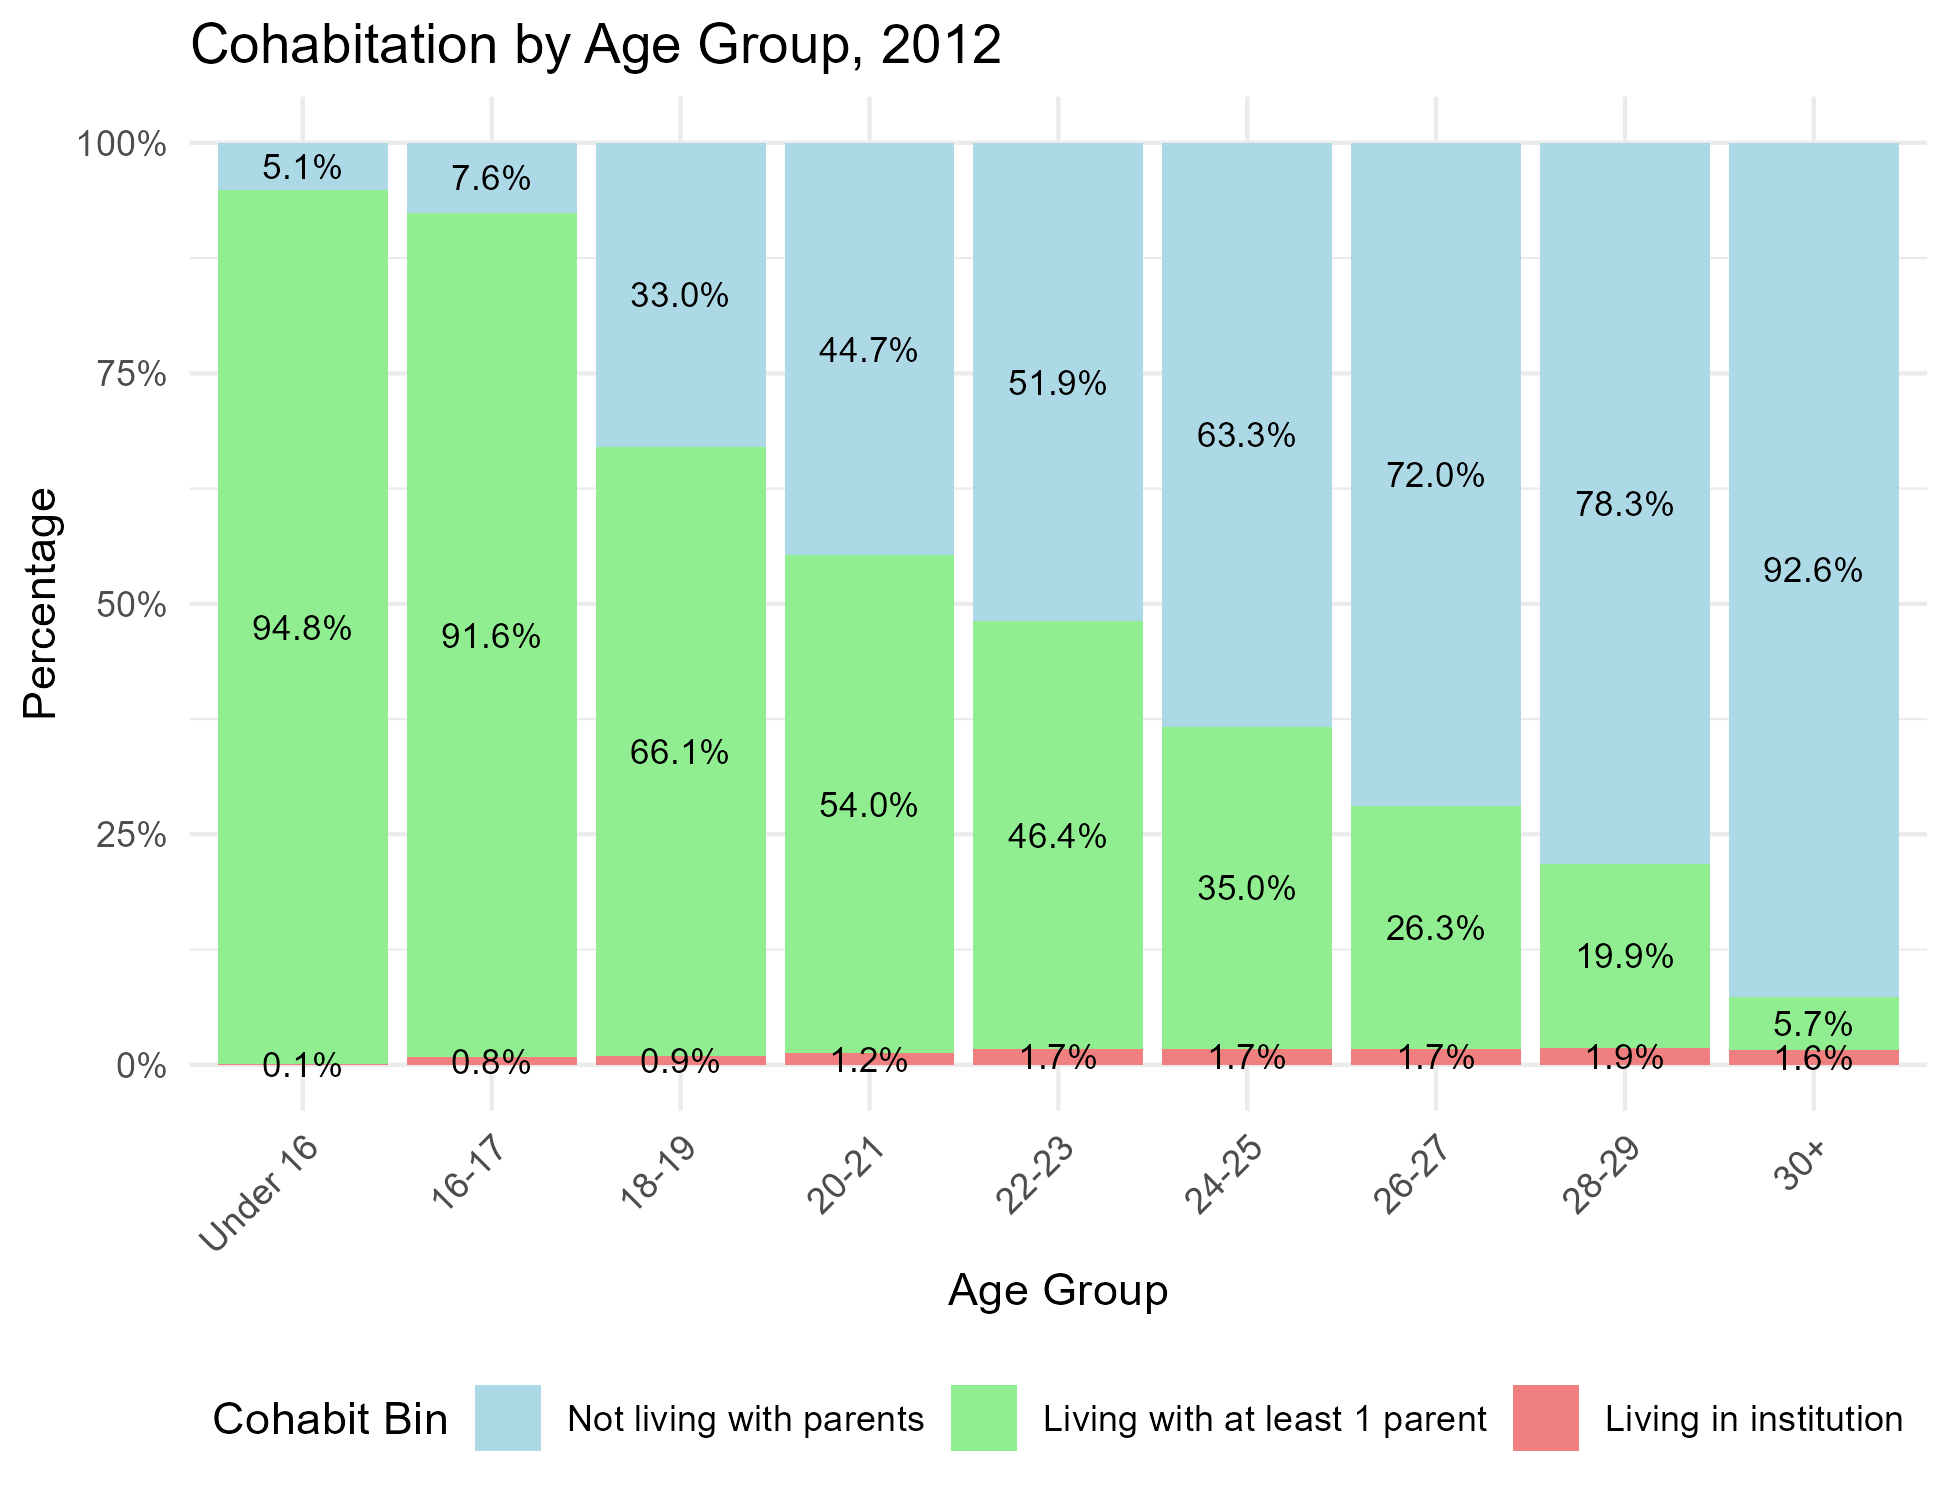
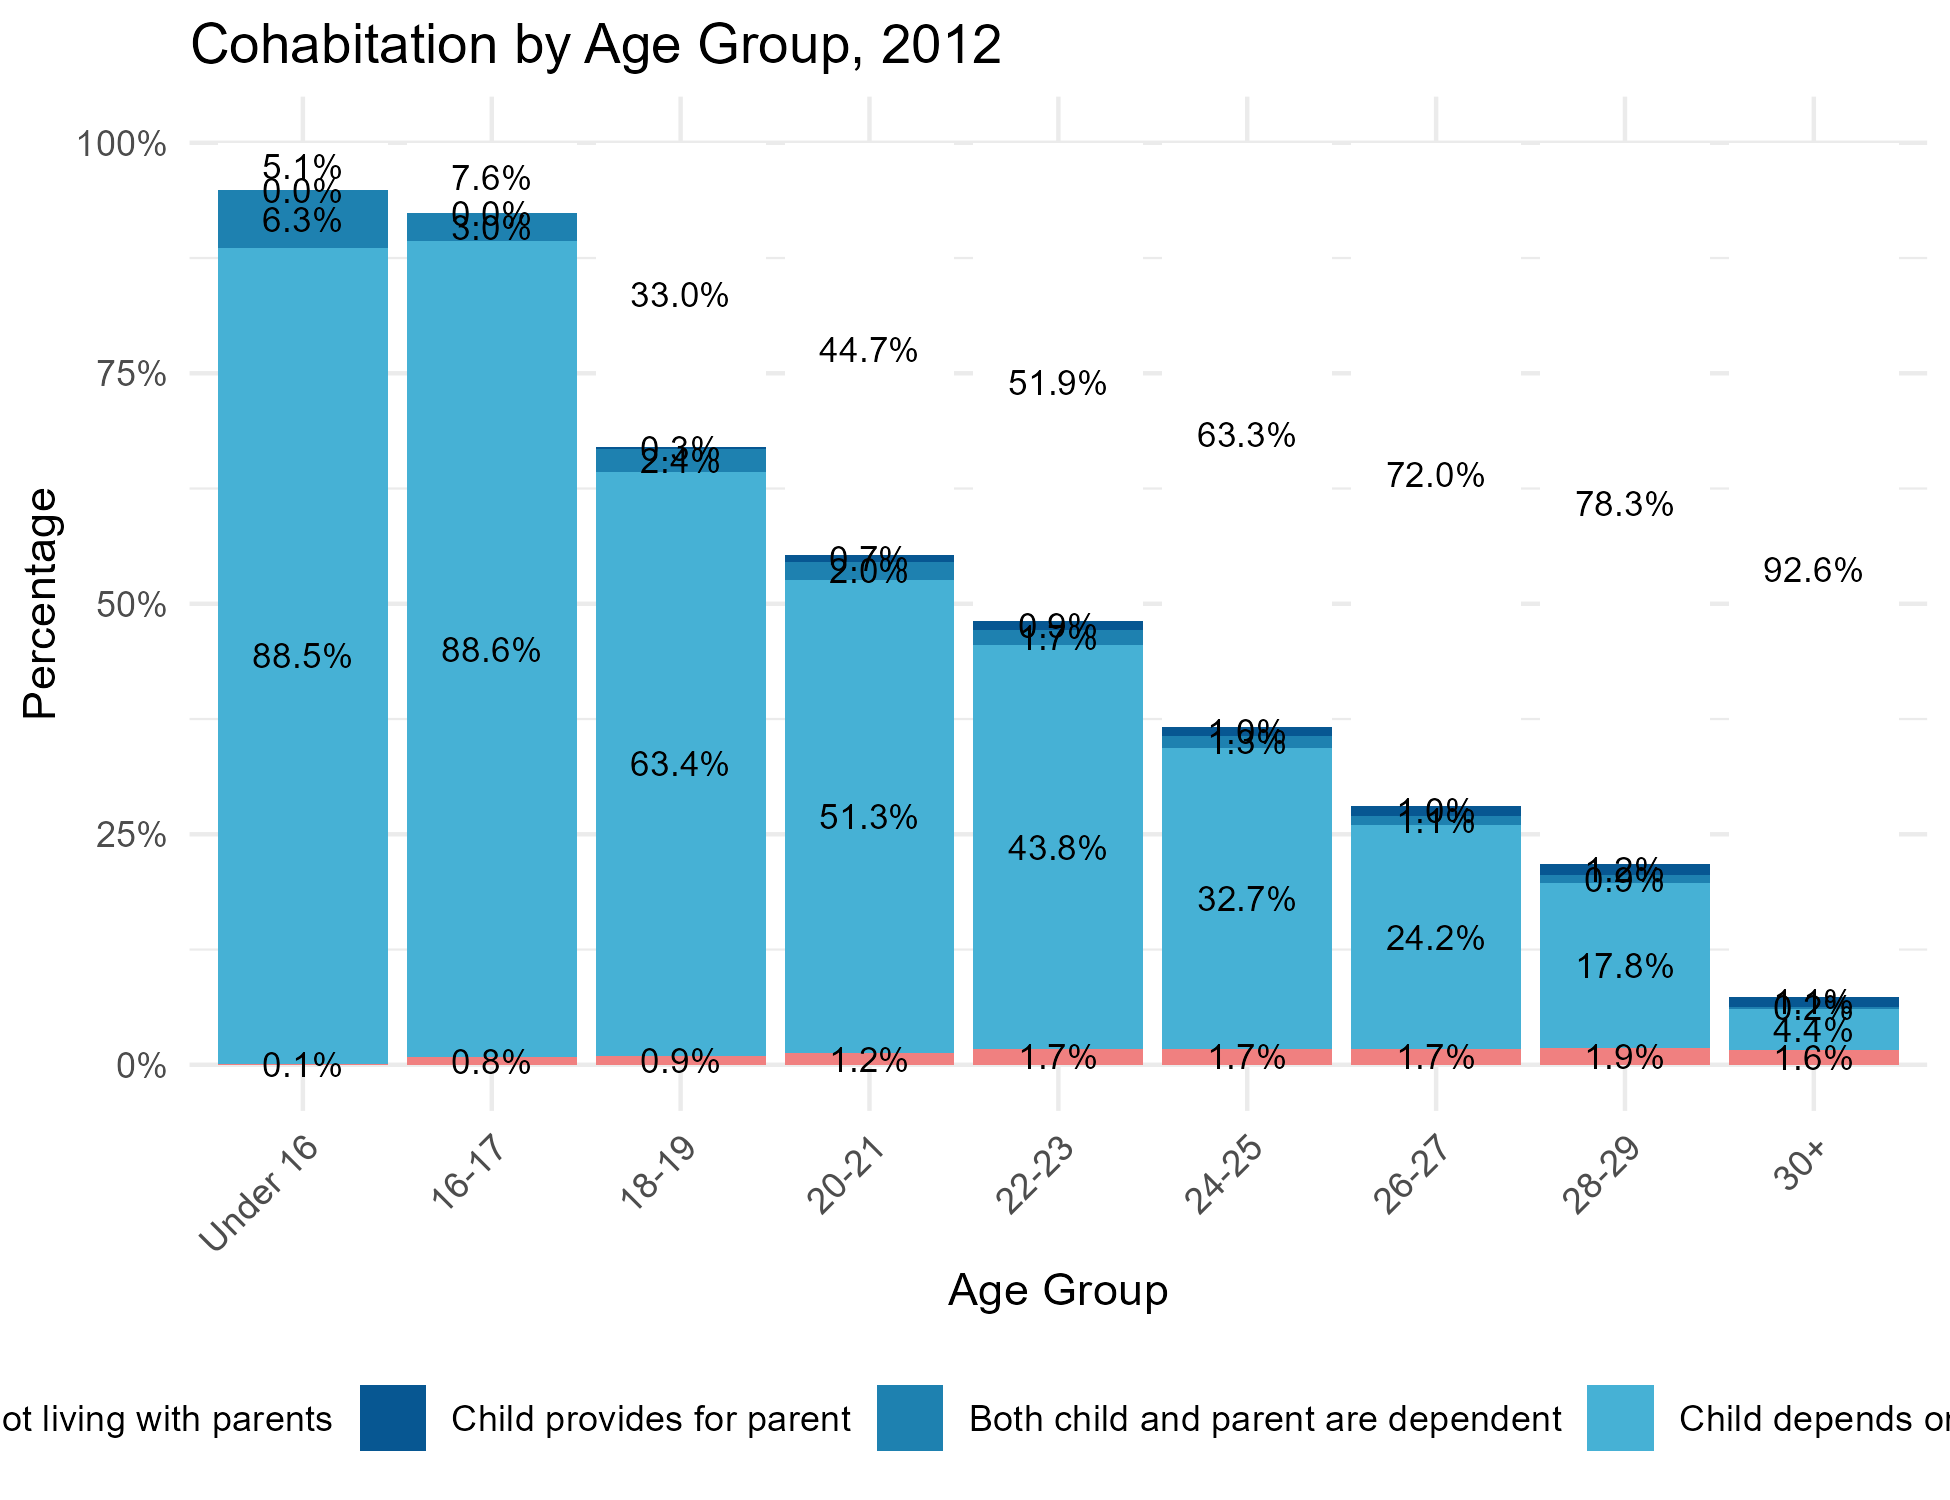
feat: add additional granularity to cohabit_bin

diff --git a/docs/how-we-classify-families.html b/docs/how-we-classify-families.html
@@ -2206,20 +2206,25 @@ all equally counted as children.</li>
 <p>We’ll explore possible encodings using the <code>RELATED</code> value
 of the person we’re observing. The following sections are organized by
 these <code>RELATED</code> encodings, in numeric order.</p>
+<p>We’ll assign someone a cohabit_bin = 0 when a person is not living
+with a parent, 1 when they live with a parent but they are the provider,
+2 if they live with a parent but neither child nor parent is the
+provider, 3 if they live with the parent as provider, and 9 if they live
+in a group setting.</p>
 <div id="related-101-head-of-household" class="section level4">
 <h4><code>RELATED = 101</code>: Head of household</h4>
-<p>A person with this status lives with a parent if there is at least
-one person with the following <code>RELATED</code> values in the
-household:</p>
+<p>A person with this status lives with a parent as the provider
+(<code>cohabit_bin = 1</code>) if there is at least one person with the
+following <code>RELATED</code> values in the household:</p>
 <ul>
 <li><code>501</code>: Parent</li>
 </ul>
 </div>
 <div id="related-201-spouse" class="section level4">
 <h4><code>RELATED = 201</code>: Spouse</h4>
-<p>A person with this status lives with a parent if there is at least
-one person with the following <code>RELATED</code> values in the
-household:</p>
+<p>A person with this status lives with a parent as the provider
+(<code>cohabit_bin = 1</code>) if there is at least one person with the
+following <code>RELATED</code> values in the household:</p>
 <ul>
 <li><code>601</code>: Parent-in-Law</li>
 </ul>
@@ -2230,15 +2235,18 @@ the household.</p>
 </div>
 <div id="related-301-child" class="section level4">
 <h4><code>RELATED = 301</code>: Child</h4>
-<p>A person with this status always lives with a parent.</p>
+<p>A person with this status always lives with a parent with the parent
+as the provider (<code>cohabit_bin = 3</code>)</p>
 </div>
 <div id="related-302-adopted-child" class="section level4">
 <h4><code>RELATED = 302</code>: Adopted Child</h4>
-<p>A person with this status always lives with a parent.</p>
+<p>A person with this status always lives with a parent with the parent
+as the provider (<code>cohabit_bin = 3</code>)</p>
 </div>
 <div id="related-303-stepchild" class="section level4">
 <h4><code>RELATED = 303</code>: Stepchild</h4>
-<p>A person with this status always lives with a parent.</p>
+<p>A person with this status always lives with a parent with the parent
+as the provider (<code>cohabit_bin = 3</code>)</p>
 </div>
 <div id="related-401-child-in-law" class="section level4">
 <h4><code>RELATED = 401</code>: Child-in-law</h4>
@@ -2275,6 +2283,8 @@ household:</p>
 <ul>
 <li><code>501</code>: Parent</li>
 </ul>
+<p>They are not the provider, but the parent is not either, so they get
+(<code>cohabit_bin = 2</code>)</p>
 </div>
 <div id="related-801-sibling-in-law" class="section level4">
 <h4><code>RELATED = 801</code>: Sibling-in-Law</h4>
@@ -2286,7 +2296,8 @@ household:</p>
 </ul>
 <p>Note that this may produce an overcount if the parent-in-law in
 residence is an unrelated parent-in-law to the sibling-in-law. However,
-this situation is probably rare.</p>
+this situation is probably rare. They are not the provider, but the
+parent is not either, so they get (<code>cohabit_bin = 2</code>)</p>
 </div>
 <div id="related-901-grandchild" class="section level4">
 <h4><code>RELATED = 901</code>: Grandchild</h4>
@@ -2299,7 +2310,8 @@ household:</p>
 <p>Note that this may produce an overcount if the child in residence is
 not the mother/father of the grandchild. However, this situation is
 likely rare (and unlikely to present itself in the target ages we are
-studying).</p>
+studying). They are not the provider, but the parent is not either, so
+they get (<code>cohabit_bin = 2</code>)</p>
 </div>
 <div id="related-1001-other-relatives" class="section level4">
 <h4><code>RELATED = 1001</code>: Other Relatives</h4>
@@ -2320,7 +2332,8 @@ household:</p>
 <p>Note: This may be an undercount, since someone may not call the
 parent of an unmarried spouse a “parent-in-law”. Further caveats from
 the section related to <code>RELATED = 201</code> (Spouse) may also
-apply, though are likely rare.</p>
+apply, though are likely rare. They are the provider, so they get
+(<code>cohabit_bin = 1</code>)</p>
 </div>
 <div id="related-1115-housemateroomate" class="section level4">
 <h4><code>RELATED = 1115</code>: Housemate/Roomate</h4>
@@ -2340,7 +2353,8 @@ could be approximated by searching for households with subfamilies.</p>
 </div>
 <div id="related-1242-foster-children" class="section level4">
 <h4><code>RELATED = 1242</code>: Foster children</h4>
-<p>A person with this status lives with a parent.</p>
+<p>A person with this status always lives with a parent with the parent
+as the provider (<code>cohabit_bin = 3</code>)</p>
 </div>
 <div id="related-1260-other-non-relatives" class="section level4">
 <h4><code>RELATED = 1260</code>: Other non-relatives</h4>
@@ -2358,7 +2372,8 @@ encoding means in practice.)</p>
 </div>
 <div id="related-1301-institutional-inmates" class="section level4">
 <h4><code>RELATED = 1301</code>: Institutional inmates</h4>
-<p>A person with this status does not live with a parent.</p>
+<p>A person with this status does not live with a parent.
+(<code>cohabit_bin = 9</code>)</p>
 <p>Note: Table 1 shows that there were 3.6 million institutional inmates
 recorded in IPUMS in 2022. The total prisoner population of the U.S. in
 2022 was just under 2 million. These other institutional inmates may
